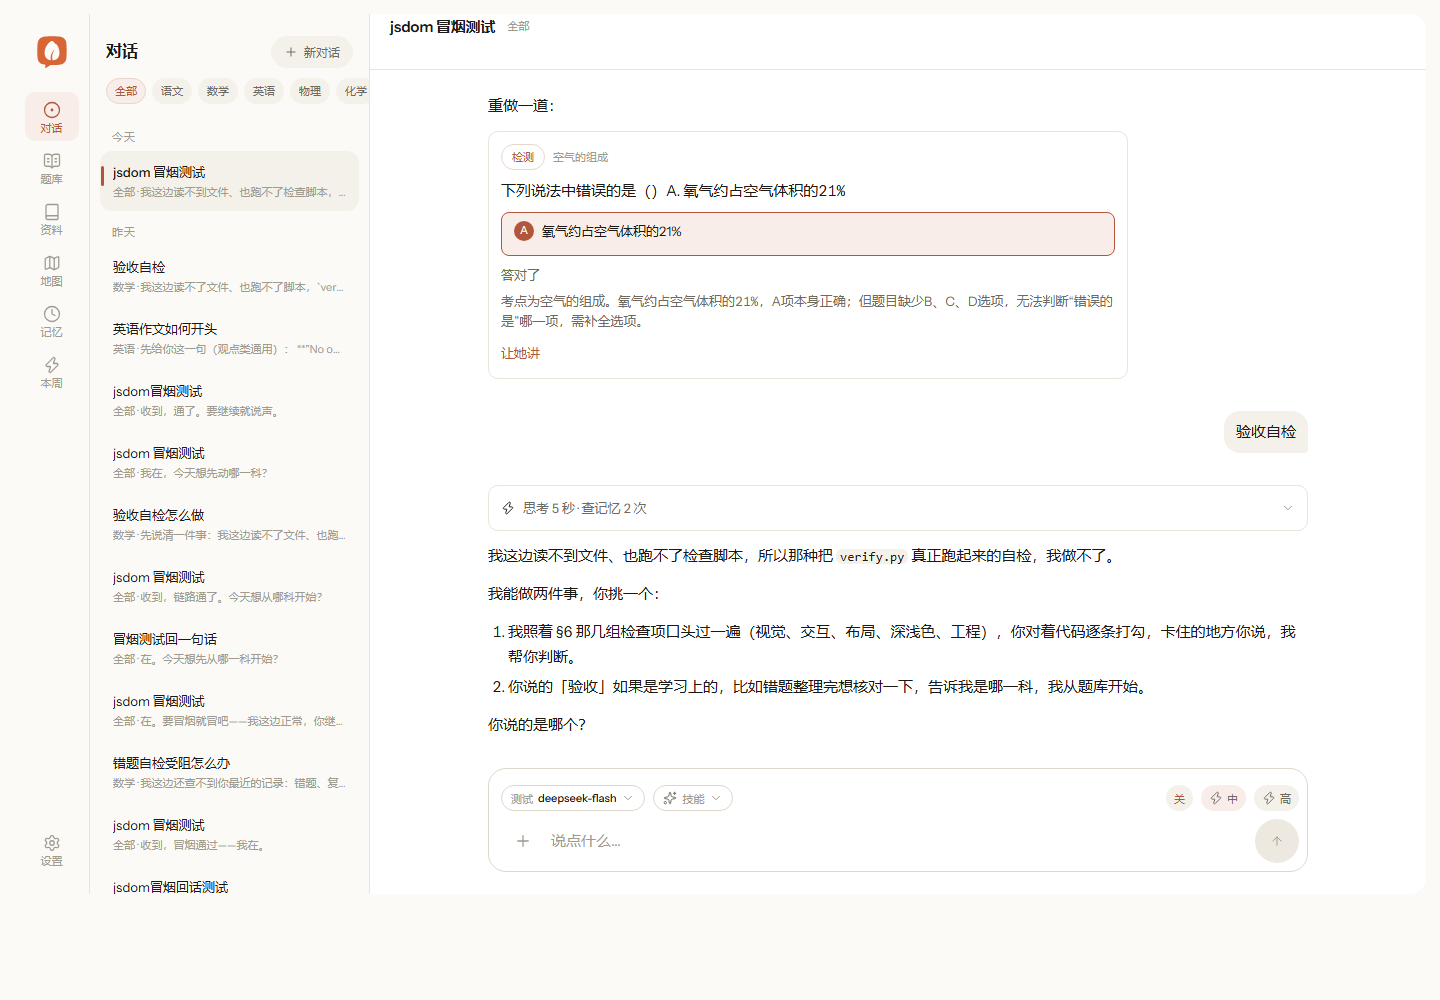
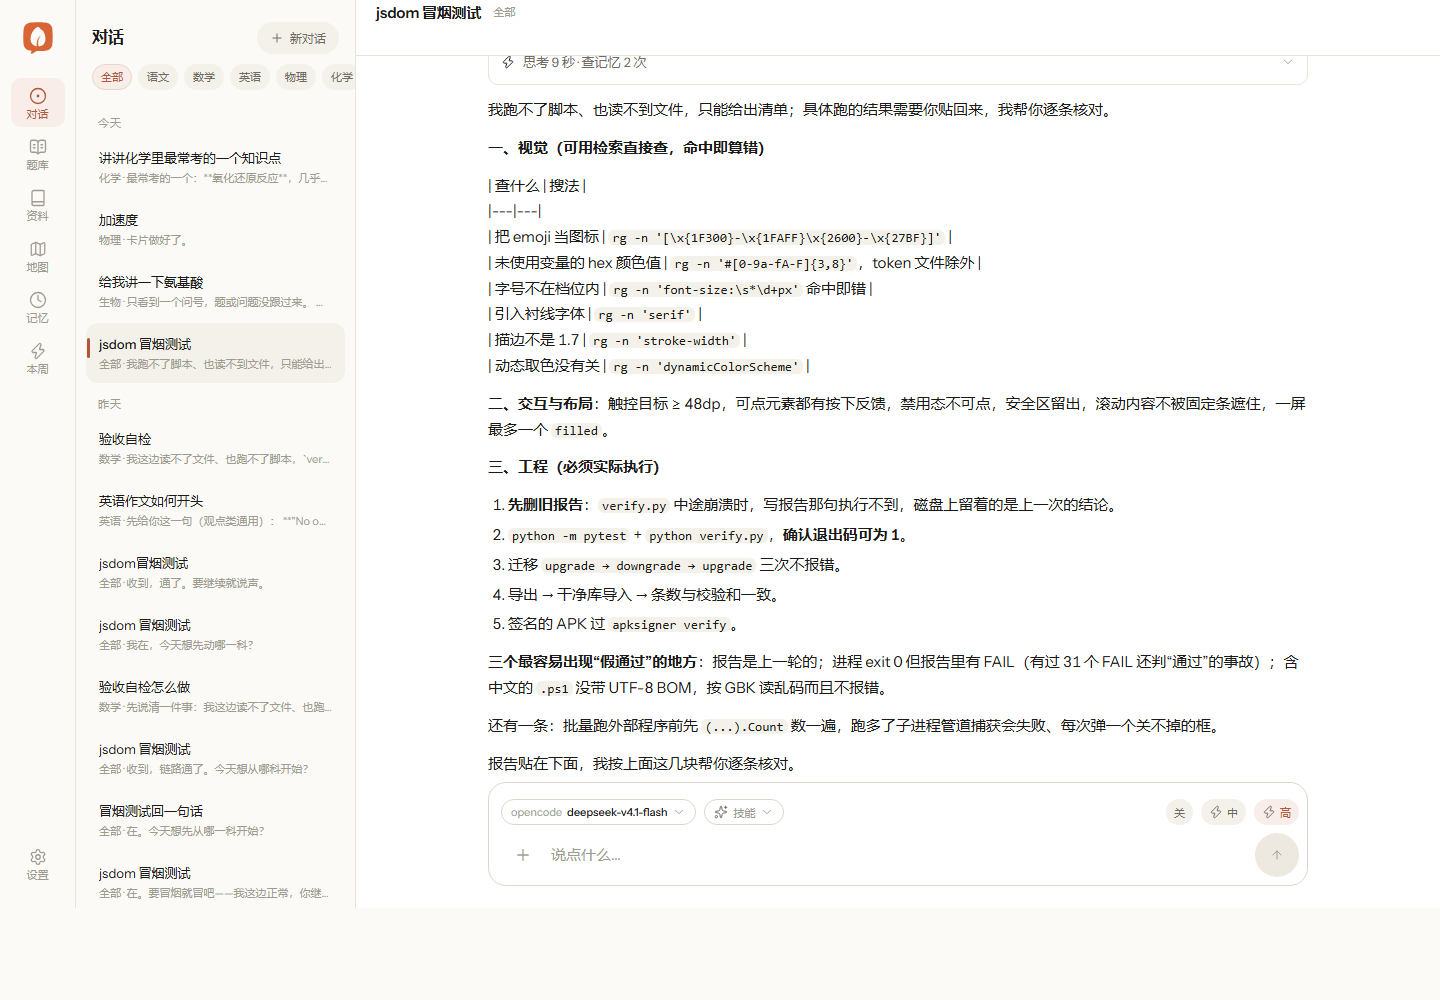
fix(ui): 去掉顶部空白带、统一标题胶囊字号间距；补 opencode 会话头

diff --git a/web/theme.css b/web/theme.css
@@ -1537,13 +1537,20 @@ body.is-hero .stream .col{min-height:100%}
   .composer{padding:8px 16px 16px}
 }
 
-/* ── A 外壳：桌面留白 + 圆角，像一张纸卡 ─────────── */
+/* ── A 外壳：全出血；顶部不留空白带 ─────────────── */
 @media (min-width:900px){
   body{background:var(--paper)}
-  .shell{padding:14px;gap:0;background:var(--paper)}
-  .rail{border-radius:16px 0 0 16px}
-  .pane{border-radius:0 16px 16px 0;overflow:hidden}
-  body.preview-open .pane{border-radius:0}
-  .previewpane{border-radius:0 16px 16px 0;overflow:hidden}
+  .shell{padding:0;gap:0;background:var(--paper)}
+  .rail,.pane,.previewpane{border-radius:0}
   .convside{border-radius:0}
+}
+
+/* 标题胶囊与外文字统一字号/间距 */
+.hero-subj{margin:0 12px;font-family:inherit;font-size:34px;font-weight:600;gap:8px}
+.hero-subj .hs{font-size:34px;font-weight:600}
+.hero-subj .hsp{font-size:34px;font-weight:600;color:var(--ink2);margin-left:1px;letter-spacing:-.02em}
+@media (max-width:760px){
+  .hero-subj{margin:0 5px;font-size:24px;gap:5px}
+  .hero-subj .hs{font-size:24px}
+  .hero-subj .hsp{font-size:24px}
 }

diff --git a/web/app.js b/web/app.js
@@ -2342,7 +2342,7 @@
     var icon = (typeof SUBJECT_ICON !== 'undefined' && SUBJECT_ICON[subj]) || 'circle-dot';
     var sug = [
       { icon: 'book-open-text', text: (subj === '全部' ? '讲讲' : '讲讲' + subj + '里') + '最常考的一个知识点' },
-      { icon: 'clock', text: '帮我梳理这周没弄懂的知识点' },
+      { icon: 'clock', text: (subj === '全部' ? '这周' : subj + '这周') + '没弄懂的知识点，帮我梳理一下' },
       { icon: 'circle-dot', text: '考考我' + (subj === '全部' ? '' : '「' + subj + '」') + '，看看哪里没掌握' }
     ];
     return '<div class="hero">' +

diff --git a/server/app/services/llm.py b/server/app/services/llm.py
@@ -12,6 +12,7 @@ from __future__ import annotations
 import asyncio
 import base64
 import json
+import uuid
 from collections.abc import AsyncIterator
 
 from datetime import datetime
@@ -109,6 +110,8 @@ async def _mock_stream(user_text: str, n_images: int, thinking: str) -> AsyncIte
     yield {"type": "usage", "prompt_tokens": 0, "completion_tokens": 0}
 
 
+OPENCODE_SESSION = uuid.uuid4().hex
+
 async def stream_chat(
     provider: LLMProvider,
     model: LLMModel,
@@ -148,6 +151,8 @@ async def stream_chat(
     headers = {"Content-Type": "application/json"}
     if provider.api_key:
         headers["Authorization"] = f"Bearer {provider.api_key}"
+    if "opencode.ai" in (provider.base_url or ""):
+        headers["x-opencode-session"] = OPENCODE_SESSION
 
     try:
         async with httpx.AsyncClient(timeout=httpx.Timeout(120.0, connect=15.0)) as client:
@@ -308,6 +313,8 @@ async def complete_text(
     headers = {"Content-Type": "application/json"}
     if provider.api_key:
         headers["Authorization"] = f"Bearer {provider.api_key}"
+    if "opencode.ai" in (provider.base_url or ""):
+        headers["x-opencode-session"] = OPENCODE_SESSION
     content: object = user
     if image_path:
         with open(image_path, "rb") as fh:
@@ -379,6 +386,8 @@ async def stream_with_tools(
     headers = {"Content-Type": "application/json"}
     if provider.api_key:
         headers["Authorization"] = f"Bearer {provider.api_key}"
+    if "opencode.ai" in (provider.base_url or ""):
+        headers["x-opencode-session"] = OPENCODE_SESSION
 
     msgs = list(messages)
     for _round in range(3):

diff --git a/docs/38-新对话页与A方向落地.md b/docs/38-新对话页与A方向落地.md
@@ -36,9 +36,9 @@
 | 项 | 值 |
 |---|---|
 | 标题字号 | 34 / 行高 1.48 / 600；手机 24 |
-| 学科按钮 | clay 浅底胶囊，图标 30，学科名 34/600，学科空间 19/400，chevron 16 |
+| 学科胶囊 | 字号与标题一致（34/600），左右各 12px 间距；「学科空间」同为 34/600、ink2，不再忽大忽小 |
 | 推荐气泡 | 高 46，圆角 999，1px line，图标 14 clay，hover 描边加深 |
-| 推荐语 | 随当前学科变化；「全部」时用通用说法 |
+| 推荐语 | 带当前学科（如「化学这周没弄懂的知识点…」）；不再用「拍一道题」这种没有图的指令 |
 | 发送行为 | 新建 conversation（subject = 当前学科）→ 立即发送；不弹额外选择 |
 
 ![新对话页](../design/mockup/agent-ui/hero-live.png)
@@ -63,7 +63,7 @@
 
 | 位置 | 改动 |
 |---|---|
-| 外壳 | 桌面 14px 留白 + 20px/16px 圆角，像一张浮起来的纸卡 |
+| 外壳 | 全出血；去掉 14px 外框，避免顶部出现一条空白带 |
 | Rail | 68/72 宽，Logo 36，active 赤陶浅底；图标/文字保持 1.7 描边 |
 | 对话侧栏 | 280 宽，品牌 16、选中卡片 12 圆角 + 左侧 3px 赤陶条、日期 11 字距 |
 | 顶栏 | 56 高，标题 15/600；新对话页隐藏 |
@@ -90,15 +90,26 @@
 
 ---
 
-## 5. 验收
+## 5. 反馈修正（2026-11-16）
+
+| 反馈 | 处理 |
+|---|---|
+| **顶部有一条空白** | 去掉桌面 14px 外框与圆角，恢复全出血；顶部不再有纸色空白带 |
+| **标题胶囊与左右字间距太小、字体不统一** | 胶囊左右各 12px 间距；「学科空间」从 19/400 改为与标题一致的 34/600，全部使用同一字体、同一字重 |
+| **没传上下文** | 推荐语不再写「拍一道题」（没有图会让她追问图片），改为带学科上下文的三句；会话的 subject 同时进 system prompt（`当前学科空间：化学`）。另外修了后台 `complete_text` 发往 opencode.ai 时缺少 `x-opencode-session` 导致 400 的问题，记忆/沉淀/标题这些后台调用恢复 |
+
+> 之前那条「拍一道化学题」是测试用的旧推荐语；现在三条推荐分别是「讲讲化学里最常考的一个知识点」「化学这周没弄懂的知识点，帮我梳理一下」「考考我「化学」，看看哪里没掌握」。
+
+## 6. 验收
 
 - `ui-hero`：**12 PASS**（标题、学科下拉、3 个推荐、输入框、Logo、顶栏隐藏、切学科、点击推荐进入会话）
 - 回归：题库 19、地图 18、主题 12、技能 7、资料库 18、学习闭环 13
 - `verify`：**40 PASS / 0 FAIL / 1 SKIP**
+- 后台沉淀：补 `x-opencode-session` 后，`setup_deposit` 从空结果恢复为「错题 1 + 知识点 2」
 
 ---
 
-## 6. 还没做
+## 7. 还没做
 
 | 项 | 说明 |
 |---|---|
